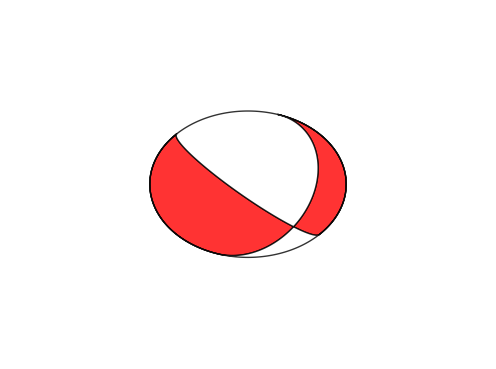
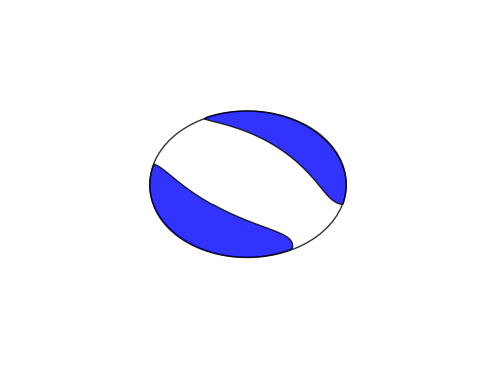
Plotting MTI on DB

Changed region(s): [[0.3024, 0.2981, 0.6956, 0.7154]]

diff --git a/surfquake/Utils/geodetic_conversion.py b/surfquake/Utils/geodetic_conversion.py
@@ -1,0 +1,110 @@
+import math
+
+
+def calculate_destination_coordinates(origin_lat, origin_lon, distance_east_west_km, distance_north_south_km):
+    # Earth radius in kilometers
+    earth_radius_km = 6371.0
+
+    # Convert distances to radians
+    delta_lat = distance_north_south_km / earth_radius_km
+    delta_lon = distance_east_west_km / (earth_radius_km * math.cos(math.radians(origin_lat)))
+
+    # Calculate destination coordinates
+    dest_lat = origin_lat + math.degrees(delta_lat)
+    dest_lon = origin_lon + math.degrees(delta_lon)
+
+    return dest_lat, dest_lon
+
+
+# def calculate_destination_coordinates_vincenty(origin_latitude, origin_longitude, distance_east_west_km, distance_north_south_km):
+#     # WGS84 ellipsoid parameters
+#     semi_major_axis = 6378137.0  # semi-major axis in meters
+#     inverse_flattening = 298.257223563  # inverse flattening
+#
+#     # Calculate semi-minor axis
+#     semi_minor_axis = semi_major_axis * (1 - 1 / inverse_flattening)
+#
+#     # Convert distances to meters
+#     delta_north_south = distance_north_south_km * 1000
+#     delta_east_west = distance_east_west_km * 1000
+#
+#     # Initial values
+#     phi1 = math.radians(origin_latitude)
+#     lambda1 = math.radians(origin_longitude)
+#
+#     U1 = math.atan((1 - 1 / inverse_flattening) * math.tan(phi1))
+#     sigma1 = math.atan2(math.tan(U1), math.cos(lambda1))
+#     sin_alpha = math.cos(U1) * math.sin(lambda1)
+#     cos2_alpha = 1 - sin_alpha**2
+#
+#     u2 = cos2_alpha * (semi_major_axis**2 - semi_minor_axis**2) / semi_minor_axis**2
+#     A = 1 + u2 / 16384 * (4096 + u2 * (-768 + u2 * (320 - 175 * u2)))
+#     B = u2 / 1024 * (256 + u2 * (-128 + u2 * (74 - 47 * u2)))
+#
+#     sigma = delta_sigma = delta_sigma_prev = delta_lambda = 1
+#     iter_limit = 1000
+#
+#     while delta_sigma > 1e-12 and iter_limit > 0:
+#         cos2_sigma_m = math.cos(2 * sigma1 + sigma)
+#         sin_sigma = math.sin(sigma)
+#         cos_sigma = math.cos(sigma)
+#         delta_sigma = B * sin_sigma * (cos2_sigma_m + B / 4 * (
+#             cos_sigma * (-1 + 2 * cos2_sigma_m**2) - B / 6 * cos2_sigma_m * (
+#                 -3 + 4 * sin_sigma**2) * (-3 + 4 * cos2_sigma_m**2)))
+#
+#         sigma_prime = sigma
+#         sigma = delta_sigma + sigma1
+#
+#         sin_alpha = math.cos(U1) * math.sin(lambda1)
+#         cos2_alpha = 1 - sin_alpha**2
+#
+#         cos2_sigma_m = math.cos(2 * sigma1 + sigma)
+#         cos_sigma = math.cos(sigma)
+#         delta_lambda = B * sin_sigma * (cos2_sigma_m + B / 4 * (
+#             cos_sigma * (-1 + 2 * cos2_sigma_m**2) - B / 6 * cos2_sigma_m * (
+#                 -3 + 4 * sin_sigma**2) * (-3 + 4 * cos2_sigma_m**2)))
+#
+#         lambda_diff = delta_lambda
+#
+#         iter_limit -= 1
+#
+#     if iter_limit == 0:
+#         raise ValueError("Vincenty formulae did not converge")
+#
+#     u2 = cos2_alpha * (semi_major_axis**2 - semi_minor_axis**2) / semi_minor_axis**2
+#     A = 1 + u2 / 16384 * (4096 + u2 * (-768 + u2 * (320 - 175 * u2)))
+#     B = u2 / 1024 * (256 + u2 * (-128 + u2 * (74 - 47 * u2)))
+#     delta_sigma_prime = B * sin_sigma * (cos2_sigma_m + 1 / 4 * B * (
+#         cos_sigma * (-1 + 2 * cos2_sigma_m**2) - 1 / 6 * B * cos2_sigma_m * (
+#             -3 + 4 * sin_sigma**2) * (-3 + 4 * cos2_sigma_m**2)))
+#
+#     phi2 = math.atan2(
+#         math.sin(U1) * math.cos(sigma) + math.cos(U1) * math.sin(sigma) * math.cos(lambda1),
+#         (1 - 1 / inverse_flattening) * math.sqrt(sin_alpha**2 + (math.sin(U1) * math.sin(sigma) - math.cos(U1) * math.cos(sigma) * math.cos(lambda1))**2)
+#     )
+#
+#     lambda2 = lambda1 + math.atan2(
+#         math.sin(sigma) * math.sin(lambda1),
+#         math.cos(U1) * math.cos(sigma) - math.sin(U1) * math.sin(sigma) * math.cos(lambda1)
+#     )
+#
+#     destination_latitude = math.degrees(phi2)
+#     destination_longitude = math.degrees(lambda2)
+#
+#     return destination_latitude, destination_longitude
+
+if __name__ == "__main__":
+
+
+    # Example usage
+    origin_latitude = 40.7128  # Example origin latitude
+    origin_longitude = -74.0060  # Example origin longitude
+    distance_east_west = -100  # Example distance towards East or West in kilometers
+    distance_north_south = -50  # Example distance towards North or South in kilometers
+
+    destination_latitude, destination_longitude = calculate_destination_coordinates(
+        origin_latitude, origin_longitude, distance_east_west, distance_north_south)
+
+    
+
+    print(f"Destination Latitude: {destination_latitude}, Destination Longitude: {destination_longitude}")

diff --git a/surfquake/Gui/Frames/event_location_frame.py b/surfquake/Gui/Frames/event_location_frame.py
@@ -952,20 +952,20 @@ class EventLocationFrame(BaseFrame, UiEventLocationFrame):
         check = False
         if self.methodCB.currentText() == "First Polarity":
 
-            strike = model.data(model.index(index.row(), 24))
-            dip = model.data(model.index(index.row(), 25))
-            rake = model.data(model.index(index.row(), 26))
+            strike = model.data(model.index(index.row(), 25))
+            dip = model.data(model.index(index.row(), 26))
+            rake = model.data(model.index(index.row(), 27))
             if None not in [strike, dip, rake]:
                 self.plot_foc_mec(method=self.methodCB.currentText(), strike=strike, dip=dip, rake=rake)
                 check = True
 
         if self.methodCB.currentText() == "MTI":
-            mrr = model.data(model.index(index.row(), 43))
-            mtt = model.data(model.index(index.row(), 44))
-            mpp = model.data(model.index(index.row(), 45))
-            mrt = model.data(model.index(index.row(), 46))
-            mrp = model.data(model.index(index.row(), 47))
-            mtp = model.data(model.index(index.row(), 48))
+            mrr = model.data(model.index(index.row(), 44))
+            mtt = model.data(model.index(index.row(), 45))
+            mpp = model.data(model.index(index.row(), 46))
+            mrt = model.data(model.index(index.row(), 47))
+            mrp = model.data(model.index(index.row(), 48))
+            mtp = model.data(model.index(index.row(), 49))
 
             if None not in [mrr, mtt, mpp, mrt, mrp, mtp]:
                 self.plot_foc_mec(method=self.methodCB.currentText(), mrr=mrr, mtt=mtt, mpp=mpp, mrt=mrt, mrp=mrp,
@@ -974,8 +974,8 @@ class EventLocationFrame(BaseFrame, UiEventLocationFrame):
 
         if check:
             # plot in the map
-            lat = model.data(model.index(index.row(), 3))
-            lon = model.data(model.index(index.row(), 4))
+            lat = model.data(model.index(index.row(), 4))
+            lon = model.data(model.index(index.row(), 5))
             print(lat, lon)
             file = os.path.join(ROOT_DIR, 'db/map_class/foc_mec.png')
 
@@ -984,9 +984,9 @@ class EventLocationFrame(BaseFrame, UiEventLocationFrame):
             imagebox.image.axes = self.map_widget.ax
             ab = AnnotationBbox(imagebox, [lon + 0.3, lat + 0.3], frameon=False)
             self.map_widget.ax.add_artist(ab)
-
-            self.map_widget.ax.annotate('', xy=(lon, lat), xycoords='data',
-                                        xytext=(lon + 0.3, lat + 0.3), textcoords='data',
+            lon_lat_transform = ccrs.PlateCarree()._as_mpl_transform(self.map_widget.ax)
+            self.map_widget.ax.annotate('', xy=(lon, lat), xycoords=lon_lat_transform,
+                                        xytext=(lon + 0.3, lat + 0.3), textcoords=lon_lat_transform,
                                         arrowprops=dict(arrowstyle="->",
                                                         connectionstyle="arc3,rad=.2"))
 
